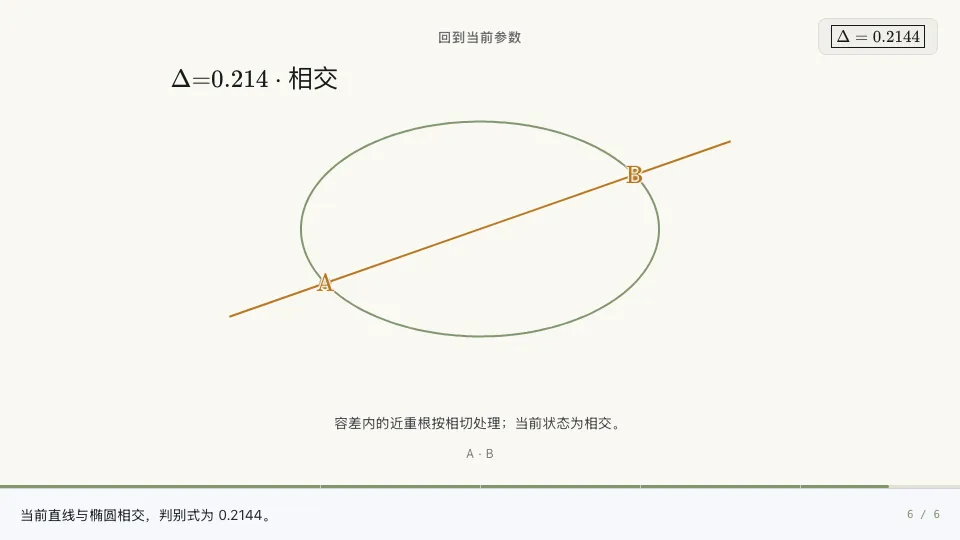
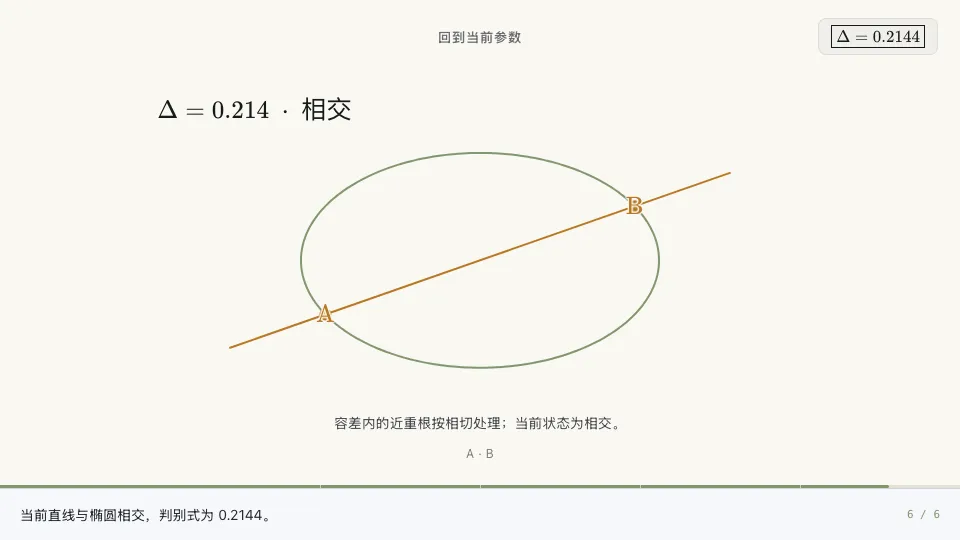
fix(templates): render discriminant annotation as latex

diff --git a/apps/web/src/pages/Templates/gold-templates/conicGoldTemplates.ts b/apps/web/src/pages/Templates/gold-templates/conicGoldTemplates.ts
@@ -214,7 +214,7 @@ function buildLineEllipse(params: TemplatePreviewParams): PlaybookScript {
       kind: "math_scene", x_min: -7, x_max: 7, y_min: -5, y_max: 5, x_label: "x", y_label: "y", curves: ellipseCurve(a, b),
       segments: shown.map((item, index) => lineSegment(item, 7, index === shown.length - 1 ? "moving_line" : "reference_line")),
       points: displayedResult.points.map((point, index) => ({ ...point, label: displayedResult.status === "tangent" ? "T" : index === 0 ? "A" : "B", emphasis: "accent", semantic_role: displayedResult.status === "tangent" ? "tangent_point" : "intersection_point" })),
-      annotations: [{ x: -6.3, y: 4.2, text: `Δ=${fixed(displayedResult.discriminant, 3)} · ${displayedStatus}`, align: "nw", semantic_role: "discriminant_panel" }],
+      annotations: [{ x: -6.3, y: 4.2, text: String.raw`$\Delta=${fixed(displayedResult.discriminant, 3)}\;\cdot\;\text{${displayedStatus}}$`, align: "nw", semantic_role: "discriminant_panel" }],
       formula_latex: formula, caption,
     };
   };
